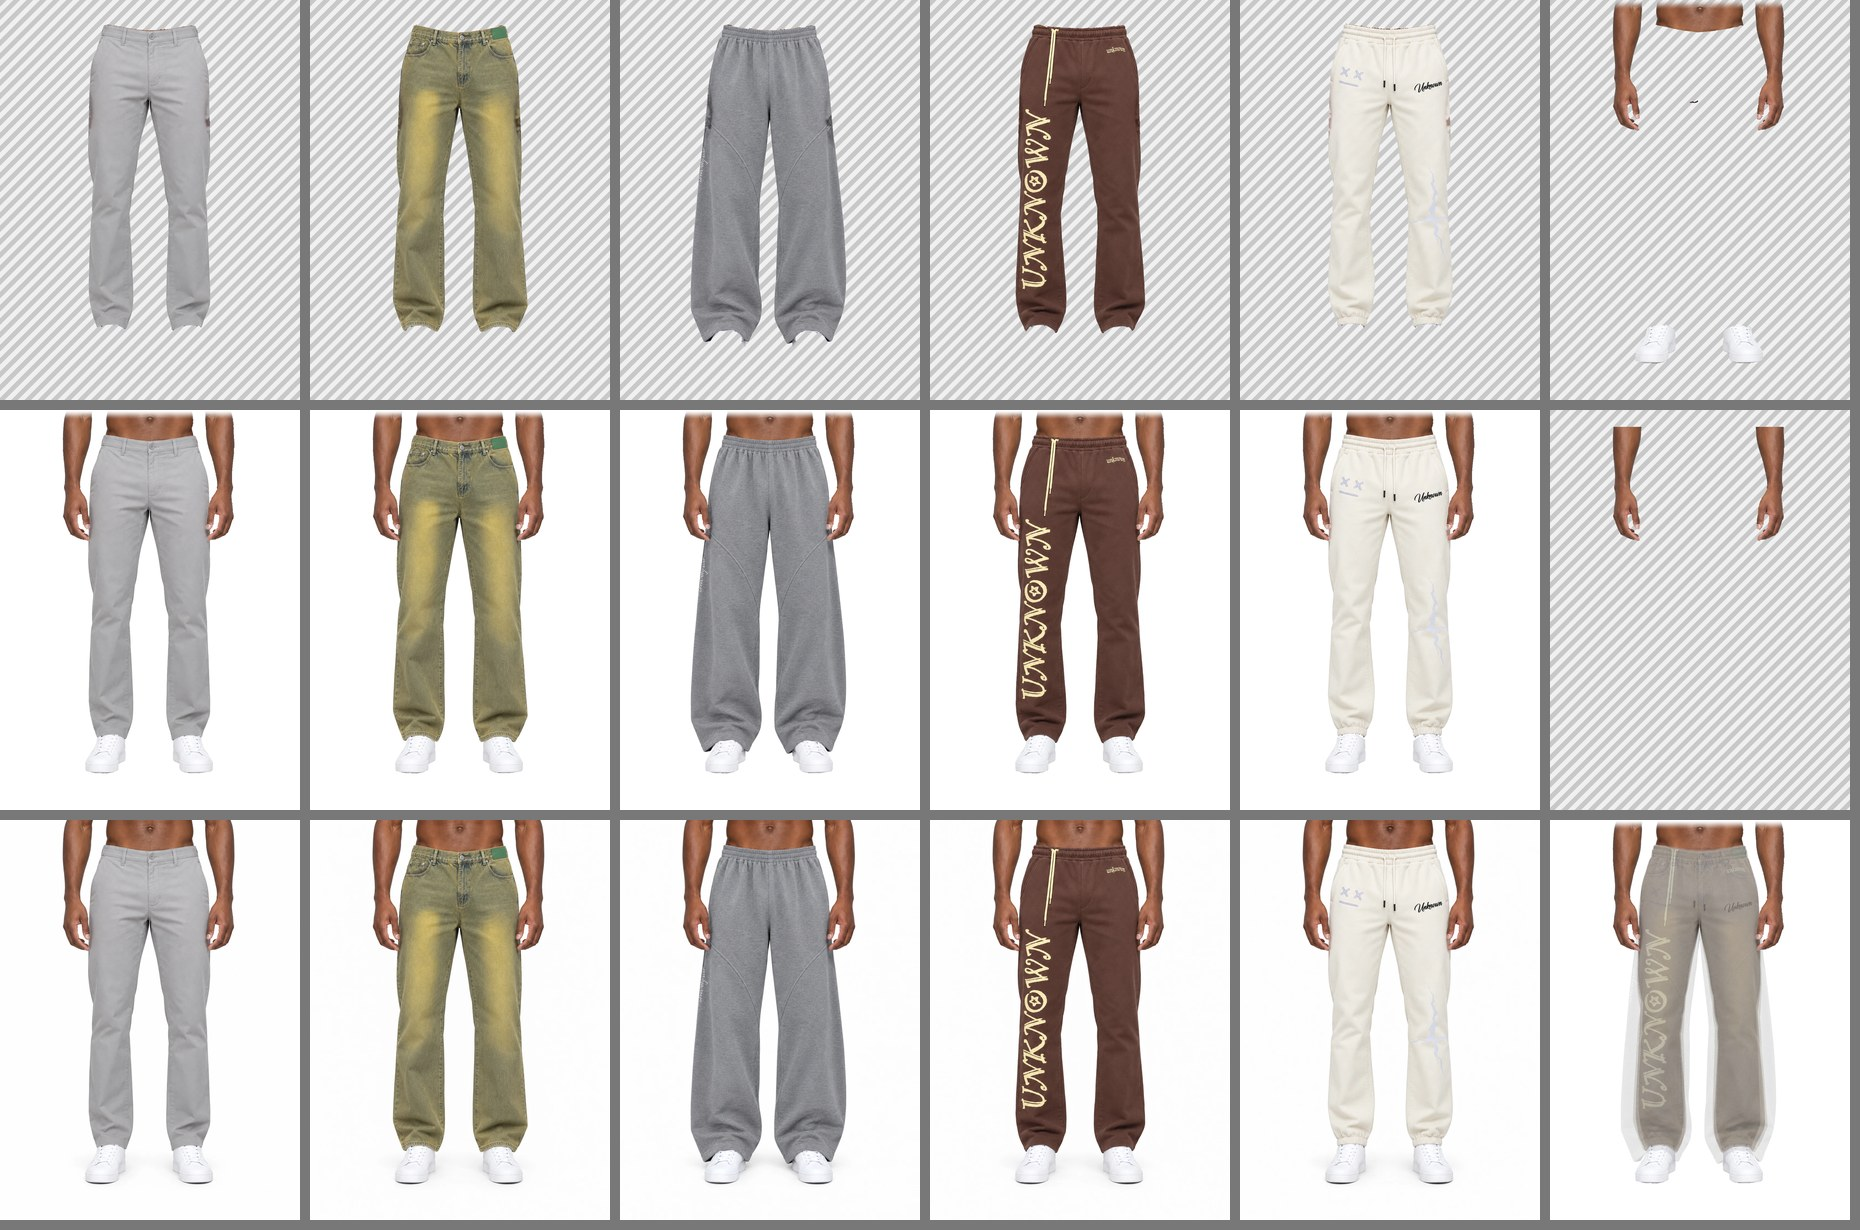
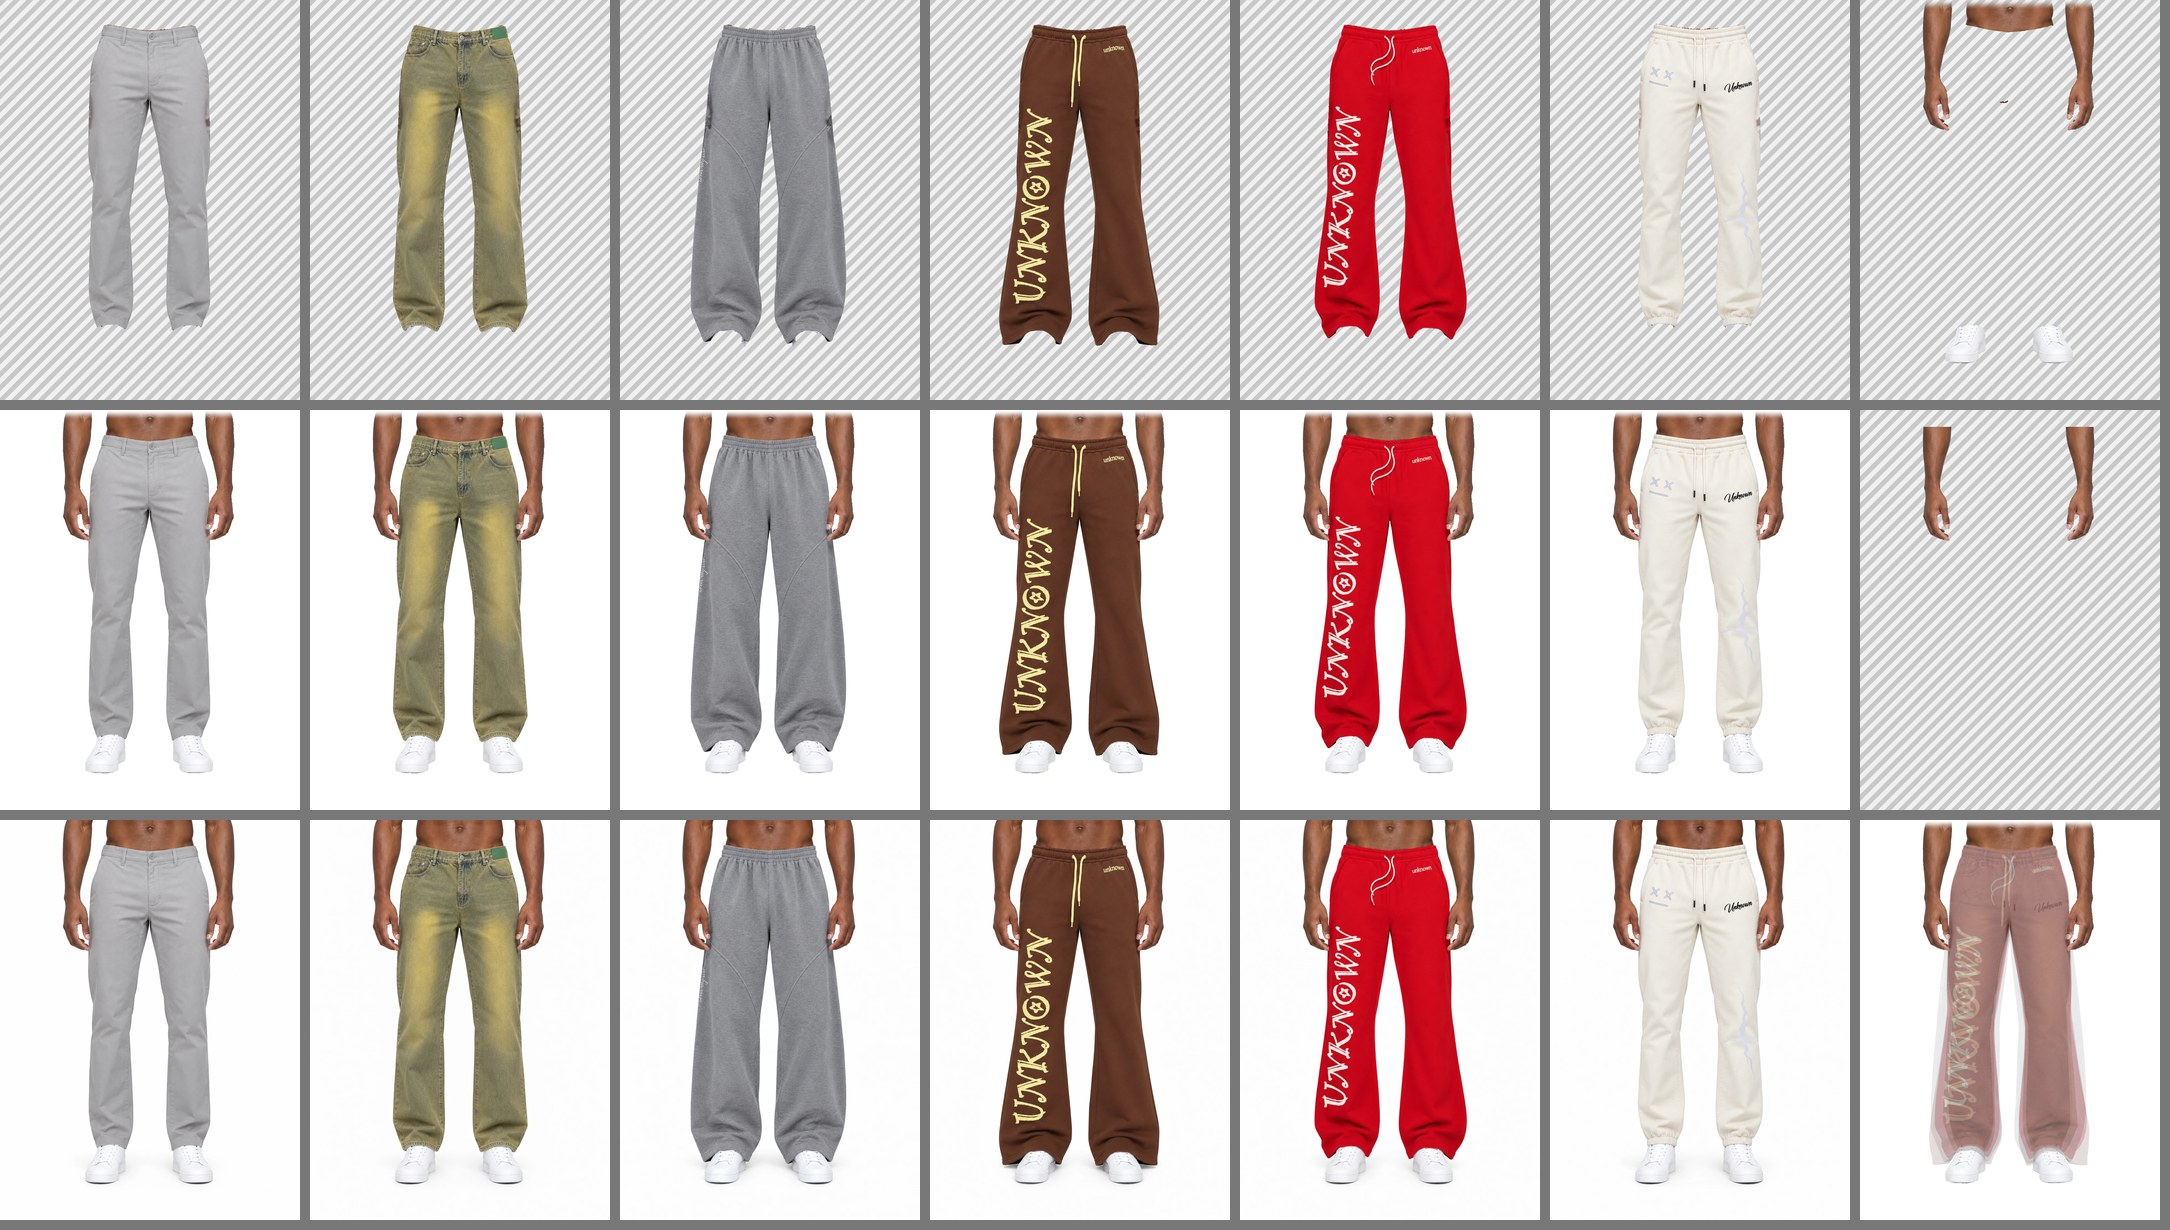
Pants: new wide-leg brown and red photos through the layer pipeline (body pinned to its reference photos)
Claude-Session: https://claude.ai/code/session_01R3uWXcqViHGtxVbGtajxeo

diff --git a/scripts/build-unknown-pants-layers.py b/scripts/build-unknown-pants-layers.py
@@ -44,7 +44,17 @@ from scipy import ndimage
 DIR = Path("assets/products-src/unknown/pants")
 OUT = DIR / "aligned"
 BASE = "model-base"
-PAIRS = ["unknown-denim-jean", "unknown-side-eye-baggy-pant", "unknown-logo-sweatpant-brown", "unknown-lgt-strikes-joggers"]
+PAIRS = ["unknown-denim-jean", "unknown-side-eye-baggy-pant", "unknown-logo-sweatpant-brown", "unknown-logo-sweatpant-red",
+         "unknown-lgt-strikes-joggers"]
+# The body and hands layers are built from these four photos only and never change when a pair is
+# added or replaced (round 10: the brown photo was regenerated; the body still comes from the
+# previous brown, kept in previous/). A new or replaced pair only gets its own pants layers.
+BODY_REFS = {
+    "unknown-denim-jean": "unknown-denim-jean",
+    "unknown-side-eye-baggy-pant": "unknown-side-eye-baggy-pant",
+    "ref:unknown-logo-sweatpant-brown": "previous/unknown-logo-sweatpant-brown",
+    "unknown-lgt-strikes-joggers": "unknown-lgt-strikes-joggers",
+}
 W, H = 1086, 1448
 SAME = 18  # max channel difference that still counts as "the same pixel" (JPEG/WebP noise is ~6)
 SAME_SHOE = 10  # tighter in the shoe zone: the grey wide pants are only ~18 off the grey chinos
@@ -55,13 +65,19 @@ FADE_LEN = 84  # the reference's fade length (source px), when there is room for
 TORSO = (360, 725)  # x range of the torso; arms hang outside it (measured on the base)
 
 
+def src_of(key):
+    """File stem (under DIR) of a photo key: pairs and the base by name, body refs by BODY_REFS."""
+    return BODY_REFS.get(key, key)
+
+
 def load(name):
-    return np.asarray(Image.open(DIR / f"{name}.webp").convert("RGB")).astype(np.float32)
+    return np.asarray(Image.open(DIR / f"{src_of(name)}.webp").convert("RGB")).astype(np.float32)
 
 
 def subject_mask(name):
-    p = DIR / "masks" / f"{name}.png"
-    src = DIR / f"{name}.webp"
+    stem = src_of(name)
+    p = DIR / (f"previous/masks/{stem.split('/')[-1]}.png" if stem.startswith("previous/") else f"masks/{stem}.png")
+    src = DIR / f"{stem}.webp"
     if not p.exists() or p.stat().st_mtime < src.stat().st_mtime:
         p.parent.mkdir(exist_ok=True)
         from rembg import new_session, remove
@@ -120,12 +136,15 @@ def register(base, alpha_b, img, alpha):
 def main():
     OUT.mkdir(exist_ok=True)
     names = [BASE] + PAIRS
-    rgb = {n: load(n) for n in names}
-    alpha = {n: subject_mask(n) for n in names}
+    refs = list(BODY_REFS)
+    extra = [r for r in refs if r not in PAIRS]  # body-only photos (not output)
+    photos = PAIRS + extra
+    rgb = {n: load(n) for n in names + extra}
+    alpha = {n: subject_mask(n) for n in names + extra}
     report = {"registration": {}, "waistband": {}, "checks": {}}
 
     # 2. registration (only where a photo is off the base by more than half a pixel)
-    for n in PAIRS:
+    for n in photos:
         a = alpha[n]
         xs_b = np.where(alpha[BASE][40] > 0.5)[0]
         xs = np.where(a[40] > 0.5)[0]
@@ -142,11 +161,11 @@ def main():
 
     # 3. body = identical in every photo (and part of the subject)
     base = rgb[BASE]
-    diff = {n: np.abs(rgb[n] - base).max(2) for n in PAIRS}
+    diff = {n: np.abs(rgb[n] - base).max(2) for n in photos}
     # a little smoothing so single noisy pixels do not flip
-    dmed = {n: ndimage.median_filter(diff[n], 3) for n in PAIRS}
-    same_count = sum((dmed[n] < SAME).astype(np.int8) for n in PAIRS)
-    shoe_same = sum((dmed[n] < SAME_SHOE).astype(np.int8) for n in PAIRS)
+    dmed = {n: ndimage.median_filter(diff[n], 3) for n in photos}
+    same_count = sum((dmed[n] < SAME).astype(np.int8) for n in refs)
+    shoe_same = sum((dmed[n] < SAME_SHOE).astype(np.int8) for n in refs)
     lb_base = lab(base)
     shoe_white = (lb_base[..., 0] > 84) & (np.hypot(lb_base[..., 1], lb_base[..., 2]) < 4)
     yy0 = np.arange(H)[:, None]
@@ -169,7 +188,7 @@ def main():
     # pants of each pair: its subject minus the body (where it still shows the body), clear of
     # the hands' ring
     pants = {BASE: ndimage.binary_opening(chinos & ~arms_pad, iterations=2)}
-    for n in PAIRS:
+    for n in photos:
         subj = alpha[n] > 0.5
         same = dmed[n] < SAME
         p = subj & ~(body & same) & ~arms_pad
@@ -204,14 +223,14 @@ def main():
                 elif side > 0 and f > e:
                     p[y, e + 1:f + 1] = True
         return p
-    for n in names:
+    for n in names + extra:
         pants[n] = mend_edges(pants[n])
 
     # spots a pair reveals that the chinos covered: in the pair they are not pants-coloured but
     # skin (waist) or white shoe (above a cuff). Colour test only inside those small zones.
-    L = {n: lab(rgb[n]) for n in names}
+    L = {n: lab(rgb[n]) for n in names + extra}
     revealed = {}
-    for n in PAIRS:
+    for n in photos:
         zone = chinos & (alpha[n] > 0.5)
         lb = L[n]
         skin = (lb[..., 1] > 8) & (lb[..., 2] > 8) & (lb[..., 0] < 72)
@@ -227,8 +246,18 @@ def main():
             sizes = ndimage.sum(r, lab_, range(1, k + 1))
             r = np.isin(lab_, 1 + np.where(sizes > 40)[0])
         revealed[n] = r
-        pants[n] &= ~r
         report["checks"].setdefault(n, {})["revealed_px"] = int(r.sum())
+    # the body takes in the spots its reference photos reveal; a pair's revealed spots leave its
+    # pants layer only where the body already has them (otherwise they stay in the pants, so the
+    # composite never shows a hole)
+    body_cover = body.copy()
+    for n in refs:
+        body_cover |= revealed[n]
+    for n in photos:
+        cut = revealed[n] & body_cover
+        pants[n] &= ~cut
+        if n in PAIRS:
+            report["checks"][n]["revealed_kept_in_pants_px"] = int((revealed[n] & ~body_cover).sum())
 
     # waistband of each pants: its top edge, median over the centre columns
     def waist(p):
@@ -238,12 +267,14 @@ def main():
             if len(ys):
                 tops.append(ys.min())
         return int(np.median(tops))
-    for n in names:
+    for n in names + extra:
         report["waistband"][n] = waist(pants[n])
-    top_waist = min(report["waistband"].values())
+    # the fade comes from the body's own photos, so it never moves; every pair is checked against it
+    top_waist = min(report["waistband"][n] for n in [BASE] + refs)
     fade_end = top_waist - SAFE
     fade_start = max(0, fade_end - FADE_LEN)
     report["fade"] = {"start": fade_start, "end": fade_end, "highest_waistband": top_waist, "safe": SAFE}
+    report["fade"]["clear_above_each_waistband"] = {n: report["waistband"][n] - fade_end for n in names}
     print("waistbands", report["waistband"], "fade", fade_start, "-", fade_end)
 
     # 4. hands: base arm pixels outside the torso band, below the chest, matted against the chinos
@@ -265,7 +296,7 @@ def main():
     # body layer: base body + revealed spots; soft edge against the backdrop, shared top fade
     body_rgb = base.copy()
     body_a = np.where(body, alpha[BASE], 0.0)
-    for n in PAIRS:
+    for n in refs:
         body_rgb[revealed[n]] = rgb[n][revealed[n]]
         body_a = np.where(revealed[n], np.maximum(body_a, alpha[n]), body_a)
     t = np.clip((np.arange(H) - fade_start) / max(1, fade_end - fade_start), 0, 1)
@@ -288,6 +319,27 @@ def main():
             fabric = np.median(L[n][orig & ~near], axis=0)
             closer_to_skin = de < np.linalg.norm(L[n] - fabric, axis=-1)
             orig &= ~(near & closer_to_skin & (de < 16))
+        if n not in BODY_REFS and n != BASE:
+            # a pair that is not one of the body's photos was generated separately, so its skin and
+            # shoes differ from the base's by more than SAME. Waist band: pixels closer in colour to
+            # the base's own pixel there (skin) than to this pair's fabric are skin, not pants.
+            # Shoe zone: neutral light pixels (chroma < 8, L* > 55) are shoe (laces, shading); the
+            # strong red and brown fabrics never are. (Fabric median from the legs.)
+            yy_ = np.arange(H)[:, None]
+            legs = orig & (yy_ > 400) & (yy_ < SHOE_Y)
+            fab = np.median(L[n][legs], axis=0)
+            lb_base_ = lab(base)
+            waist_zone = (yy_ < report["waistband"][n] + 40) & body
+            skinish = np.linalg.norm(L[n] - lb_base_, axis=-1) < 1.25 * np.linalg.norm(L[n] - fab, axis=-1)
+            before_ = orig.copy()
+            orig &= ~(waist_zone & skinish)
+            # shoe zone: neutral pixels (chroma < 8, L* > 30: white leather down to its shadows)
+            neutral = (np.hypot(L[n][..., 1], L[n][..., 2]) < 8) & (L[n][..., 0] > 30) & (yy_ > SHOE_Y)
+            if np.hypot(fab[1], fab[2]) > 20:  # only for clearly coloured fabric
+                orig &= ~neutral
+            orig = np.where(yy_ < report["waistband"][n] + 40, ndimage.binary_opening(orig, iterations=3), orig)
+            orig = np.where(yy_ > SHOE_Y, ndimage.binary_opening(orig, iterations=2), orig)
+            report["checks"].setdefault(n, {})["new_pair_cleanup_px"] = int((before_ & ~orig).sum())
         # hems: thin slivers of shoe (shading, laces) along the bottom edge are not fabric
         hem = np.arange(H)[:, None] > SHOE_Y
         orig = np.where(hem, ndimage.binary_opening(orig, iterations=4), orig)
@@ -310,7 +362,7 @@ def main():
         a = np.where(fill, 1.0, a)
         # where the pants meet the body (waist, hands, shoes) the edge is the cut line itself:
         # a 1px feather so it is not stair-stepped
-        edge = full & ~ndimage.binary_erosion(full) & ndimage.binary_dilation(body | revealed.get(n, np.zeros_like(body)))
+        edge = full & ~ndimage.binary_erosion(full) & ndimage.binary_dilation(body | (revealed.get(n, np.zeros_like(body)) & body_cover))
         a = np.where(edge, a * 0.6, a)
         layers[n] = np.dstack([col, a[..., None] * 255]).clip(0, 255).astype(np.uint8)
         report["checks"].setdefault(n, {})["filled_under_hands_px"] = int(fill.sum())

diff --git a/assets/products-src/unknown/pants/PROCESSING.md b/assets/products-src/unknown/pants/PROCESSING.md
@@ -8,9 +8,10 @@ Kept byte-for-byte as supplied, renamed to the file names the section expects:
 | `model-base.webp` | grey chinos: the neutral in-between state, not a product |
 | `unknown-denim-jean.webp` | olive washed denim |
 | `unknown-side-eye-baggy-pant.webp` | grey wide sweatpant with curved seams |
-| `unknown-logo-sweatpant-brown.webp` | brown logo sweatpant (regenerated in the base pose, 26 Oct 2026) |
+| `unknown-logo-sweatpant-brown.webp` | brown logo sweatpant, wide leg (regenerated in the base pose, 27 Oct 2026) |
 | `unknown-lgt-strikes-joggers.webp` | cream sweatpant with the lightning-crack graphic (regenerated in the base pose, 26 Oct 2026) |
-| `unknown-logo-sweatpant-red.webp` | not supplied yet (the red pair is switched off in `pants.data.ts`) |
+| `unknown-logo-sweatpant-red.webp` | red logo sweatpant, wide leg (generated in the base pose, 27 Oct 2026) |
+| `previous/unknown-logo-sweatpant-brown.webp` | the earlier brown photo (26 Oct). Not shown; still one of the four photos the body layer is built from (with its mask in `previous/masks/`) |
 
 ## Pipeline
 
@@ -35,7 +36,37 @@ and the share of pixels more than 40 levels off). `aligned/contact-sheet.jpg`: e
 checkerboard, the composite and the original, plus the body, the hands and a 50% overlay of all
 composites.
 
-## Last run (26 Oct 2026)
+## Body references (round 10)
+
+The body and hands layers come from four fixed photos (`BODY_REFS` in the script: denim, side eye,
+the previous brown, LGT), so adding or replacing a pair never changes them: after adding red and
+replacing brown, `body.png`, `hands.png`, the base and the other three pairs (colour and grey) are
+pixel-identical to the previous run. A pair outside the references (now brown and red) gets two
+extra clean-ups, because a separately generated photo's skin and shoes differ from the base's by more
+than the "same pixel" threshold: within 40 px of its waistband, pixels closer in colour to the base's
+skin there than to the pair's fabric are dropped (skin); in the shoe zone, neutral pixels
+(chroma < 8, L* > 30) are dropped (shoe leather, laces, its shadows). Only for clearly coloured
+fabric (chroma > 20), so a cream or grey pair would need its own check.
+
+## Last run (27 Oct 2026)
+
+| Photo | Registration | Waistband top (px) | Rebuild: mean / px > 40 |
+|---|---|---|---|
+| base chinos | (the base) | 104 | 1.0 / 0.41% |
+| denim | already on the base | 109 | 2.5 / 0.60% |
+| side eye | scale 0.983, shift −9.9, −1.2 px | 104 | 2.7 / 0.83% |
+| brown (new, wide leg) | already on the base | 102 | 3.5 / 1.08% |
+| red (new, wide leg) | scale 1.001, shift 0.5, −1.7 px | 102 | 2.8 / 0.89% |
+| cream (LGT) | scale 1.001, shift 0.5, −1.2 px | 100 | 2.5 / 0.47% |
+
+Fade unchanged: 0–35 px, 65–74 px above every waistband (red and brown 67). Brown and red each have
+~2,500 px (0.2% of the figure) of shoe top that the base chinos covered and their hems don't; those
+show the page's white right under the hem (white shoe on white: no visible edge). After the clean-ups, shoe-coloured
+pixels left in the hems: red 2, brown 0; skin-hued pixels at red's waist: 66 (its edge). Brown can't
+be checked by colour (its fabric is skin-toned): checked by eye at 2x on black, no skin above the
+waistband (`reference/unknown/qa/round10/3-cutouts-*.jpg`).
+
+## Previous run (26 Oct 2026)
 
 | Photo | Registration | Waistband top (px) | Rebuild: mean / px > 40 |
 |---|---|---|---|
